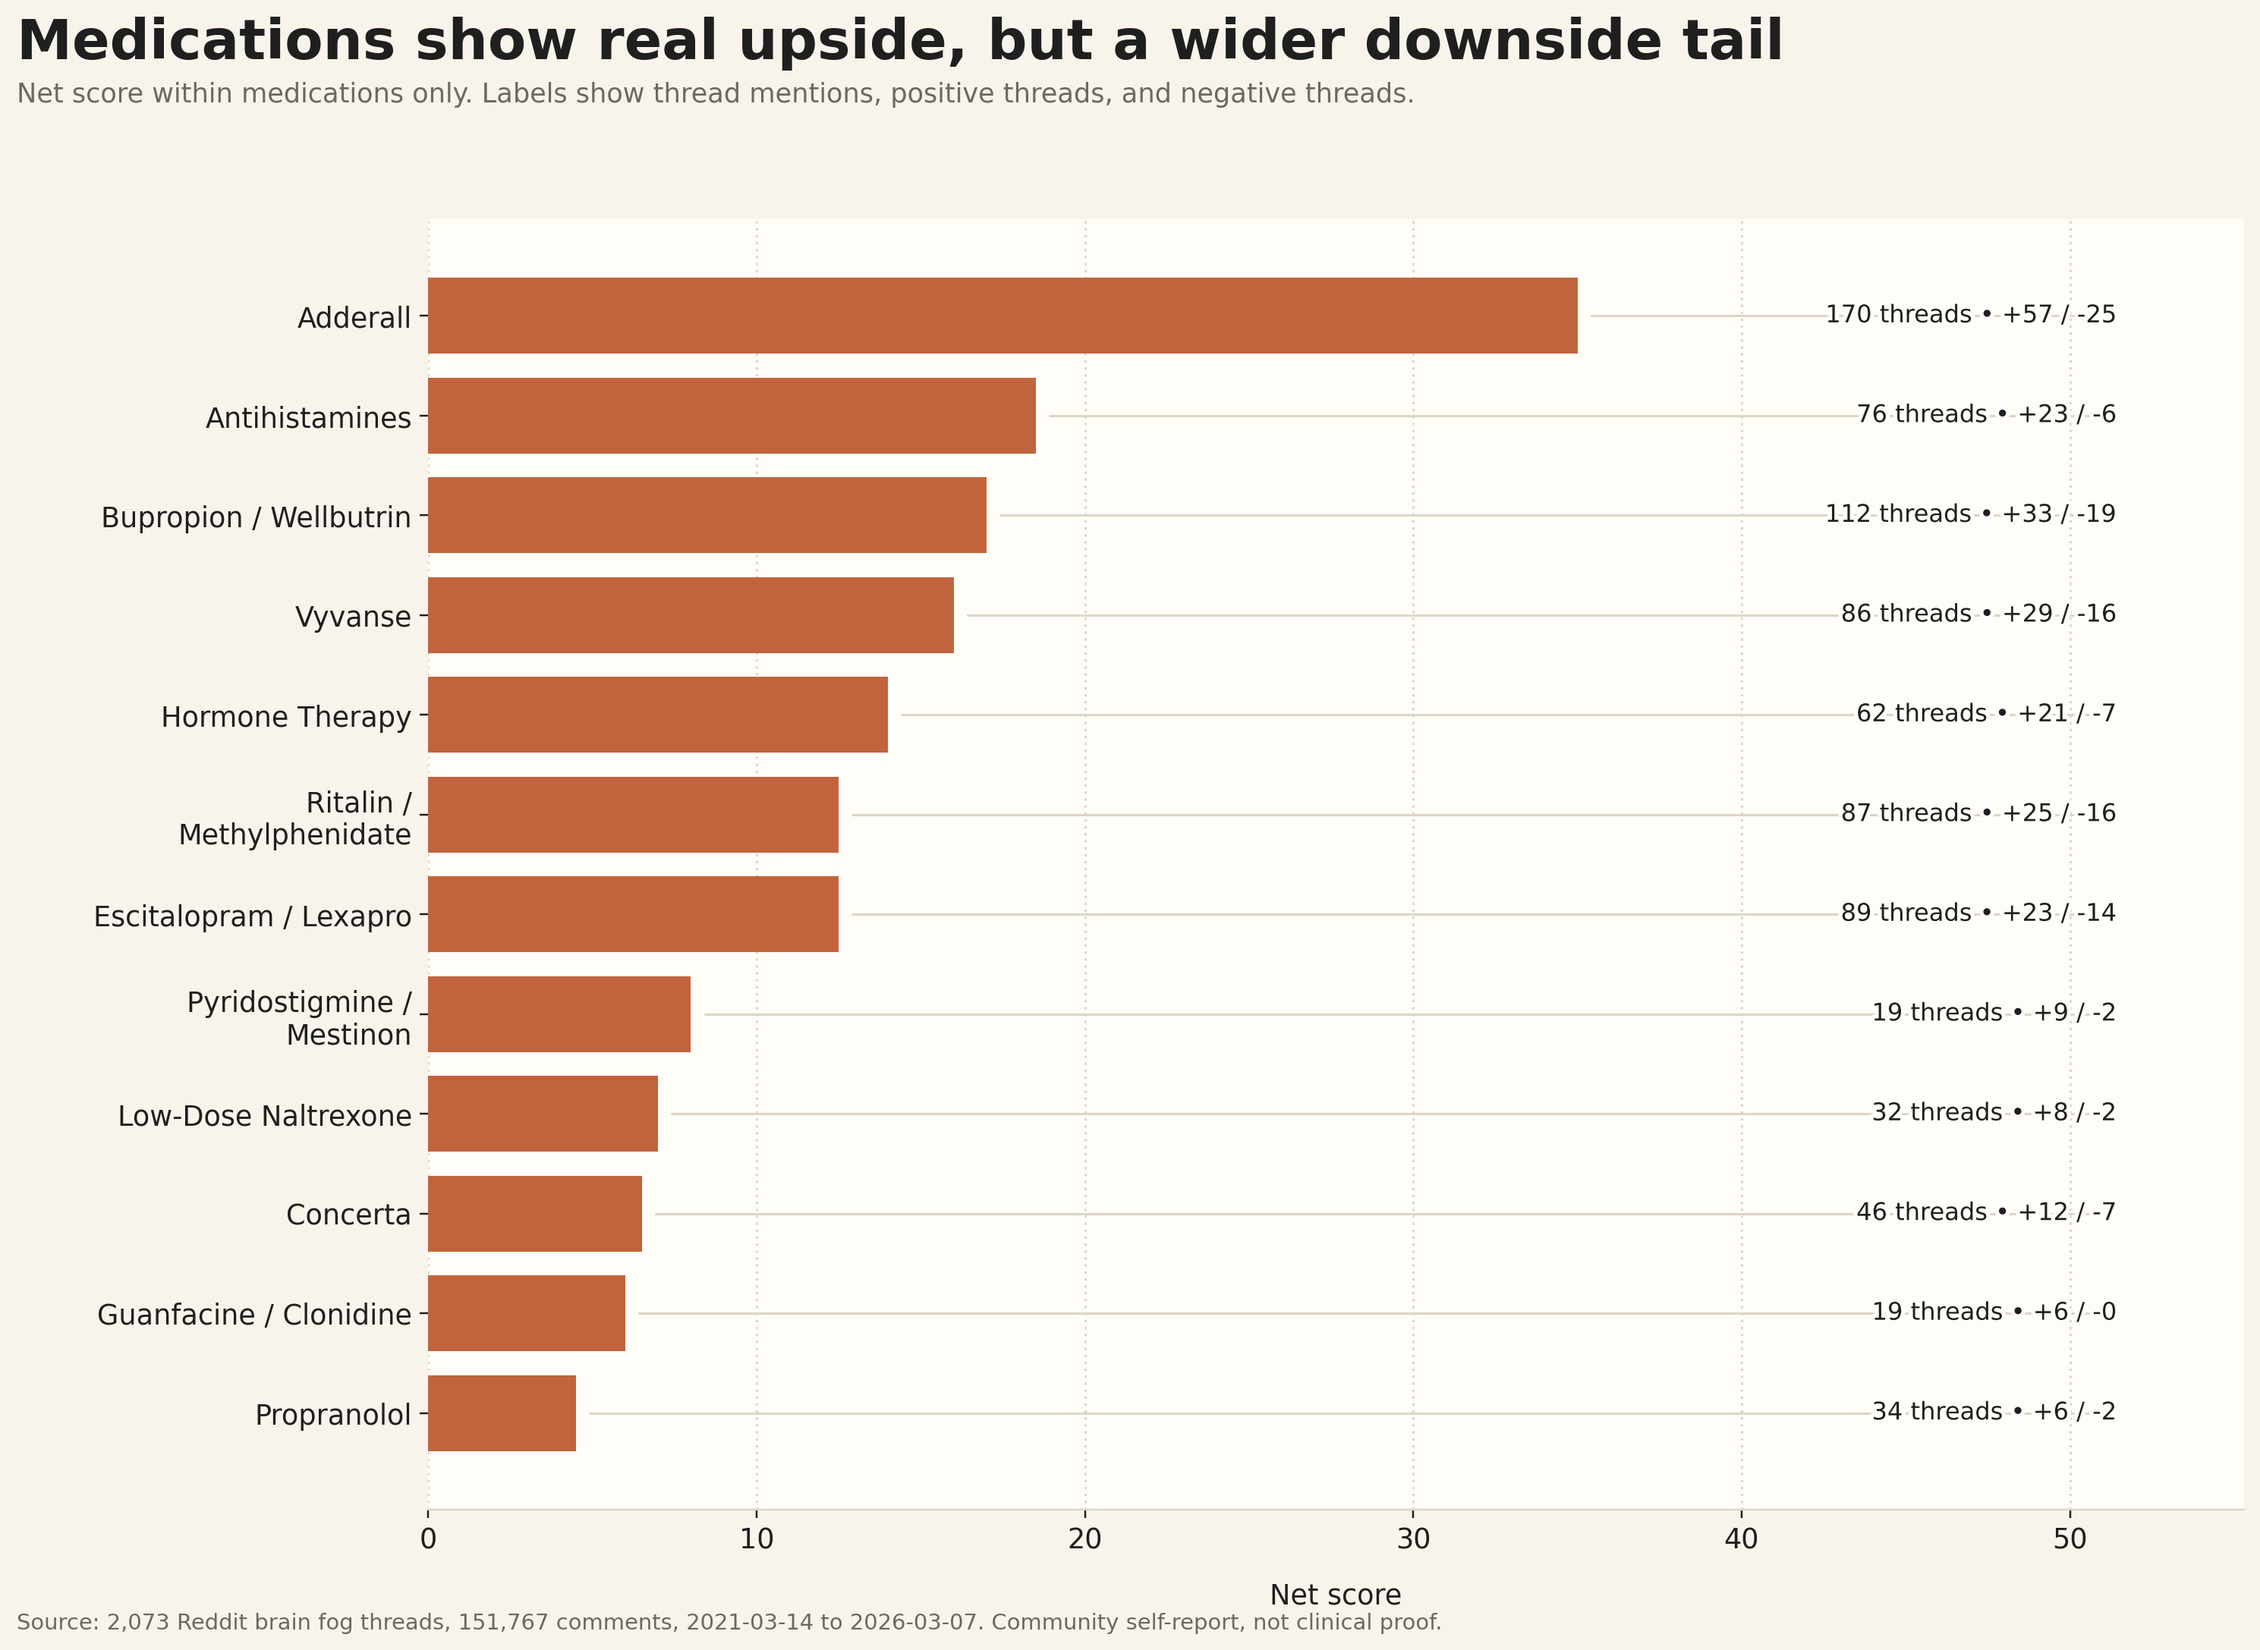
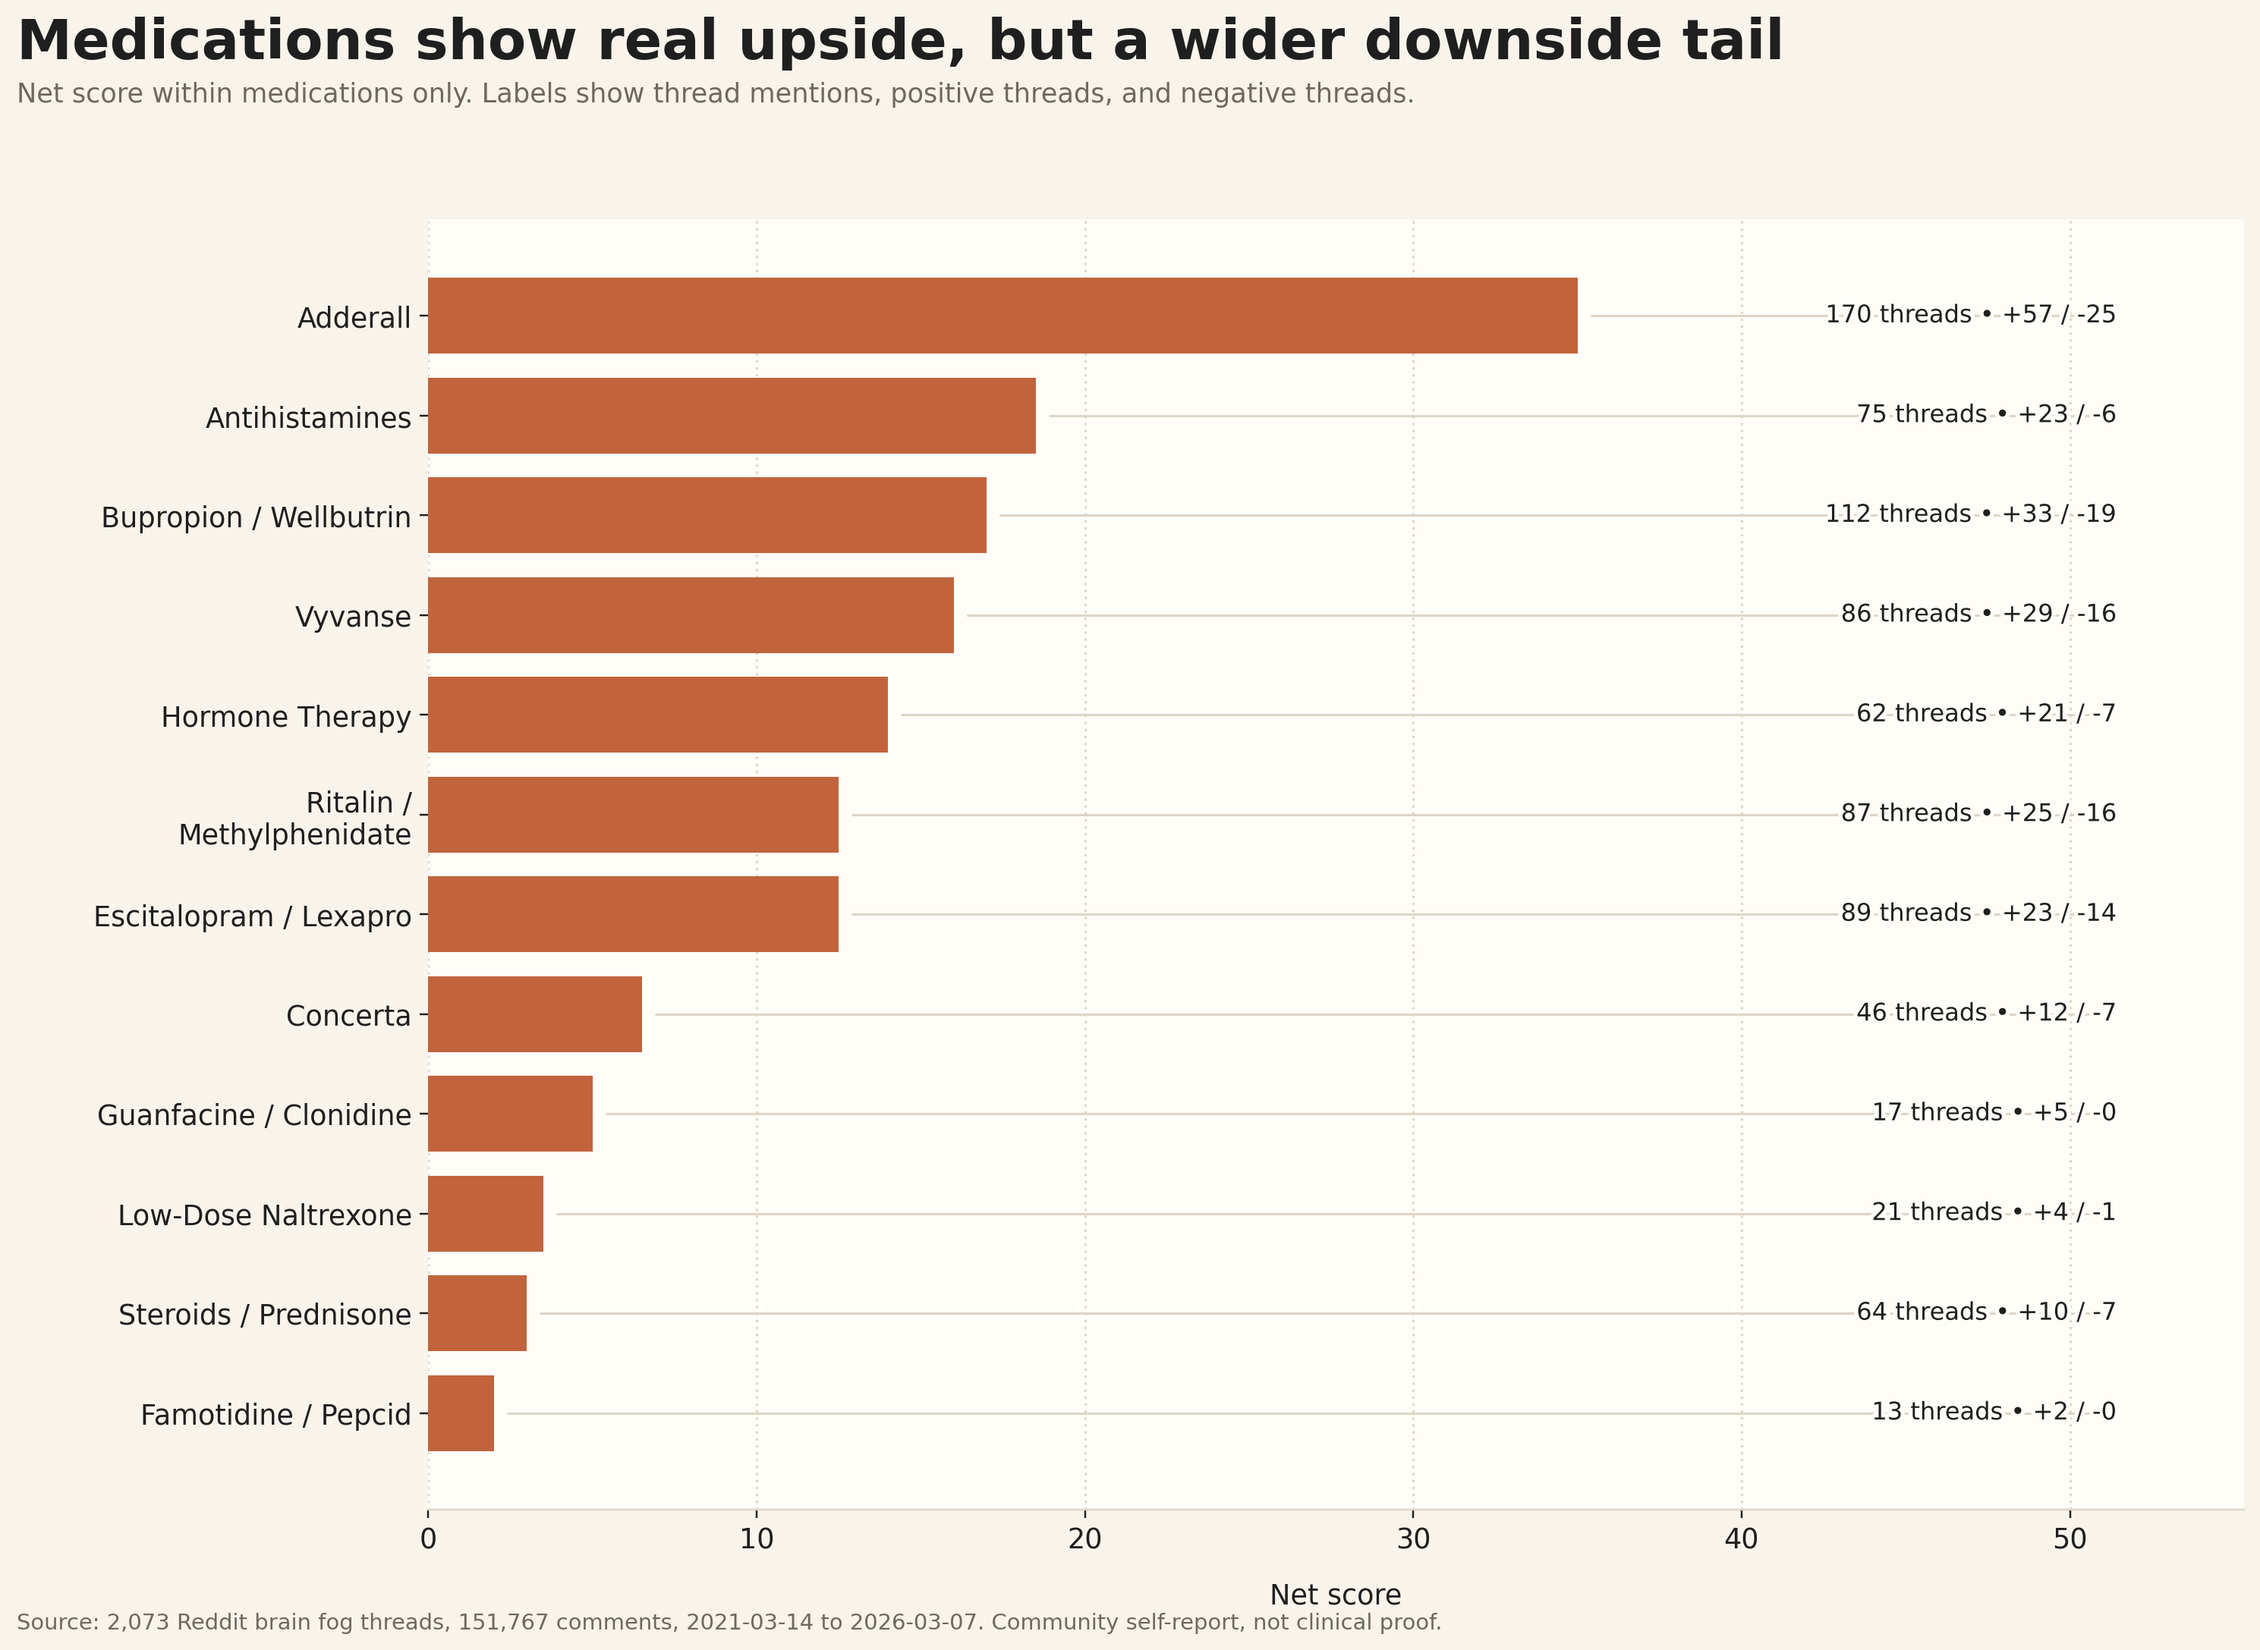
Revert brain fog blog charts

diff --git a/src/content/blog/2026/what-2073-reddit-brain-fog-threads-reveal.md b/src/content/blog/2026/what-2073-reddit-brain-fog-threads-reveal.md
@@ -53,7 +53,7 @@ It is not just a cloud of random desperation posts. And it is not dominated main
 
 A second pattern is just as striking: the strongest signals are often less glamorous than people expect. Sleep hygiene, therapy, hydration, walking, magnesium, `B12`, iron, and basic nutrition changes show up over and over again. The center of gravity is much closer to regulation and correction than to miracle hacks.
 
-Then there is a third layer: some lower-visibility ideas appear stronger than their level of attention would suggest. Antihistamines still stand out, but the refreshed item set also pulls up `Methylene Blue`, `Nattokinase`, `Low-Histamine Diet`, `Curcumin`, `Berberine`, `B-Complex`, and `Thiamine / Vitamin B1` as quieter signals worth a closer look.
+Then there is a third layer: some lower-visibility ideas appear stronger than their level of attention would suggest. Antihistamines, `CPAP / BiPAP`, `L-theanine`, hormone-related interventions, and a handful of quieter strategies stand out more than their visibility would predict.
 
 This does not make them proven. It makes them interesting.
 
@@ -89,7 +89,18 @@ The hero chart above is the single best overview in the entire post.
 
 The x-axis shows the share of mentioning threads that describe an intervention negatively. The y-axis shows the share of mentioning threads that describe it positively. So the most attractive region is the upper left: more positive reports, fewer negative ones.
 
-That focus zone now includes several especially clean signals: `Nattokinase`, `Methylene Blue`, `Low-Histamine Diet`, `Yoga / Stretching`, `Guanfacine / Clonidine`, `Intermittent Fasting`, `Sleep Hygiene / Sleep Schedule`, `Meditation / Breathwork`, `Curcumin`, `L-theanine`, `Hydration / Electrolyte Protocol`, `Cardio Training`, `Zinc`, and `Hormone Replacement Protocol`.
+That focus zone is where several clean signals cluster:
+
+1. `Yoga / Stretching`
+2. `Intermittent Fasting`
+3. `Sleep Hygiene / Sleep Schedule`
+4. `Meditation / Breathwork`
+5. `L-theanine`
+6. `Guanfacine / Clonidine`
+7. `Hydration / Electrolyte Protocol`
+8. `Cardio Training`
+9. `Hormone Replacement Protocol`
+10. `Zinc`
 
 The chart also shows why some medications need a more careful reading. `Vyvanse`, `Ritalin / Methylphenidate`, `Adderall`, and `Bupropion / Wellbutrin` can sit fairly high on positive reports while also drifting rightward into a more divisive zone. In plain English: they can help, but they also generate more downside reports and more disagreement.
 
@@ -104,9 +115,9 @@ Some interventions look broadly clean. Others look powerful but unstable.
 
 The supplement chart is more conservative than the internet usually is.
 
-The top layer is still familiar and surprisingly robust: `Magnesium`, `Vitamin B12`, `Iron / Ferritin`, and `Vitamin D`. Those are not trendy answers, but they recur again and again. But the next tier is broader than the first pass suggested. `Omega-3 / Fish Oil` stays visible, while `Lion's Mane`, `Methylene Blue`, `B-Complex`, `Creatine`, `Curcumin`, `Potassium`, `Thiamine / Vitamin B1`, `Multivitamin`, `L-theanine`, and `Nattokinase` now register as meaningful supplement-level signals.
+The top layer is familiar and surprisingly robust: `Magnesium`, `Vitamin B12`, `Iron / Ferritin`, and `Vitamin D`. Those are not trendy answers, but they recur again and again. Lower down, `Omega-3 / Fish Oil`, `Zinc`, `Creatine`, `L-theanine`, `NAC`, and `Choline / Citicoline` form a secondary tier.
 
-One interpretation is that the supplement story is still not mainly about flashy cognitive enhancers. Even many of the newer names map back to subtype stories: post-viral recovery, histamine, methylation or B-vitamin status, gut-directed protocols, inflammation, and energy metabolism.
+One interpretation is that the supplement story is not mainly about flashy cognitive enhancers. It is often about correcting basic physiological problems first: deficiency, stress load, sleep quality, energy balance, and inflammation-adjacent issues.
 
 ## 5. Which medications stand out?
 
@@ -143,7 +154,7 @@ This is one of the strongest signs that brain fog is often lived as a systems pr
 
 This chart is where the analysis starts to get interesting.
 
-The standout names now are `Nattokinase`, `Berberine`, `Methylene Blue`, `Low-Histamine Diet`, `Curcumin`, `Antihistamines`, `L-theanine`, and `Lion's Mane`. These are not the most talked-about ideas overall, but they look stronger than their low visibility would predict.
+The standout names are `L-theanine`, `Antihistamines`, `Carnivore Diet`, and `Guanfacine / Clonidine`. These are not the most talked-about ideas overall, but they look stronger than their low visibility would predict.
 
 That makes them worth paying attention to, not because they are proven winners, but because low-visibility signals are exactly where communities sometimes notice something before it becomes mainstream.
 
@@ -156,7 +167,7 @@ That makes them worth paying attention to, not because they are proven winners, 
 
 The underrated-positive ranking broadens the hidden-gem idea.
 
-`Methylene Blue` and `Nattokinase` now lead the underrated-positive ranking. `Low-Histamine Diet`, `Berberine`, `Curcumin`, `Antihistamines`, `L-theanine`, `Lion's Mane`, `Carnivore Diet`, `Zinc`, `Hormone Replacement Protocol`, and `Low-Dose Naltrexone` also show up as interventions that seem better than their low status would suggest.
+`L-theanine` remains the strongest low-visibility signal. `Antihistamines` stay unusually prominent. `Carnivore Diet`, `Zinc`, `Hormone Replacement Protocol`, `NAC`, `Creatine`, `Elimination Diet`, `Gluten-free`, `Guanfacine / Clonidine`, `Multivitamin`, and `Choline / Citicoline` all show up as interventions that seem better than their low status would suggest.
 
 Even if not every individual signal survives future scrutiny, the pattern is still useful: many of the overlooked signals cluster around inflammation, diet tolerance, autonomic regulation, or deficiency correction rather than generic “brain boosters.”
 
@@ -169,7 +180,7 @@ Even if not every individual signal survives future scrutiny, the pattern is sti
 
 Once the filter becomes more demanding, the list gets narrower and more provocative.
 
-`Nattokinase` now tops the stricter filter. `Hormone Replacement Protocol` remains notable. `Guanfacine / Clonidine`, `Low-Dose Naltrexone`, `Red-Light Therapy`, `Digestive Enzymes`, `Choline / Citicoline`, and `Propranolol` also survive this narrower screen.
+`L-theanine` still holds up. `Hormone Replacement Protocol` remains notable. `Guanfacine / Clonidine`, `Choline / Citicoline`, `Low-Dose Naltrexone`, and even `Dairy-free` appear as small but non-trivial signals.
 
 These are exactly the kinds of findings that can generate useful next questions. Not “this definitely works,” but “why does this show up here, and for which subgroup?”
 
@@ -182,7 +193,7 @@ These are exactly the kinds of findings that can generate useful next questions.
 
 This is one of the most practical charts in the whole set.
 
-If you care about interventions that combine meaningful positive reports with a relatively small negative tail, `Meditation / Breathwork` still looks strong, but `Methylene Blue`, `Nattokinase`, `Cardio Training`, `Curcumin`, `L-theanine`, `Pacing / Energy Envelope`, `B-Complex`, `Elimination Diet`, `Niacin / Vitamin B3`, `Creatine`, and `Hormone Replacement Protocol` also rise.
+If you care about interventions that combine meaningful positive reports with a relatively small negative tail, `Meditation / Breathwork`, `Cardio Training`, `L-theanine`, `Zinc`, `Pacing / Energy Envelope`, `Elimination Diet`, `Hormone Replacement Protocol`, `Creatine`, `Multivitamin`, `NAC`, and `Choline / Citicoline` move up.
 
 This is not a prescription list, but it is a very useful triage list. It tells you where the Reddit conversation sees relatively good upside without as much complaint burden.
 
